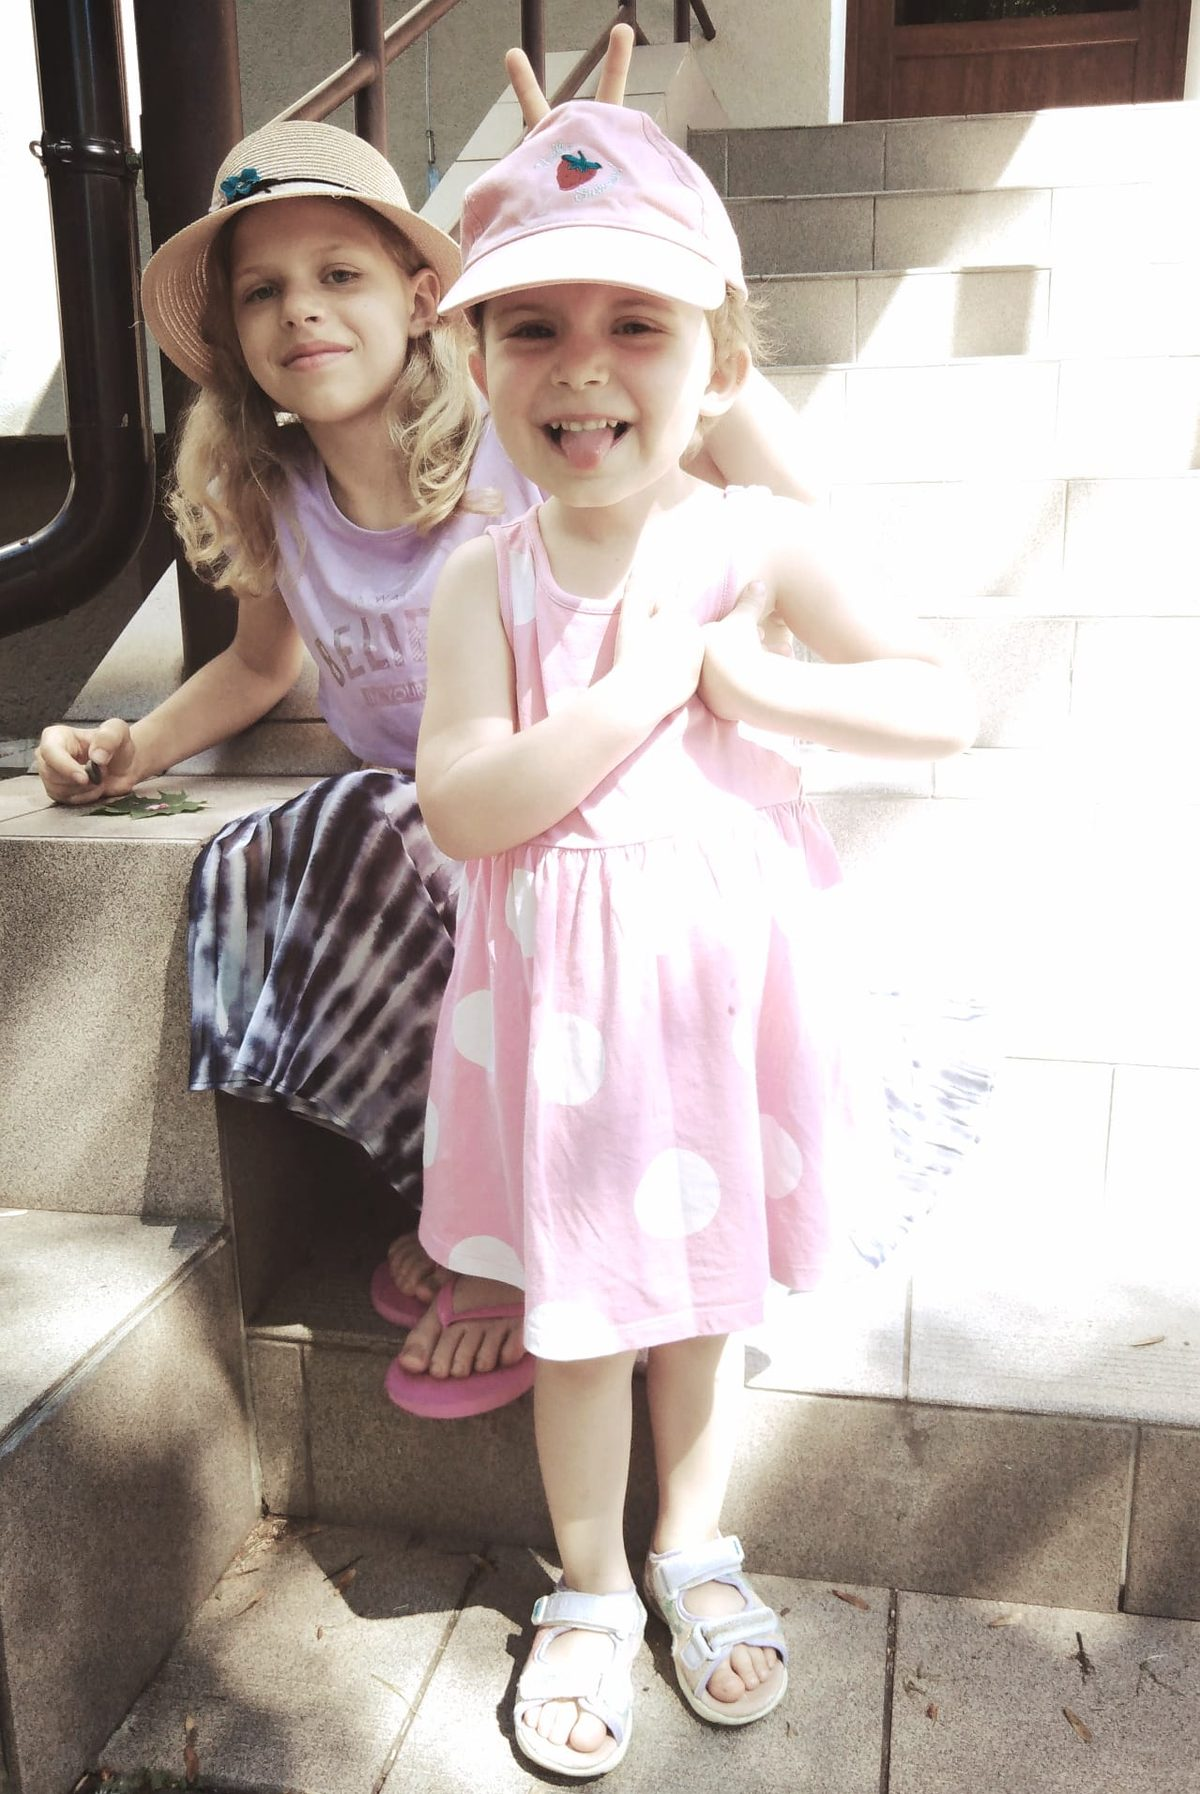
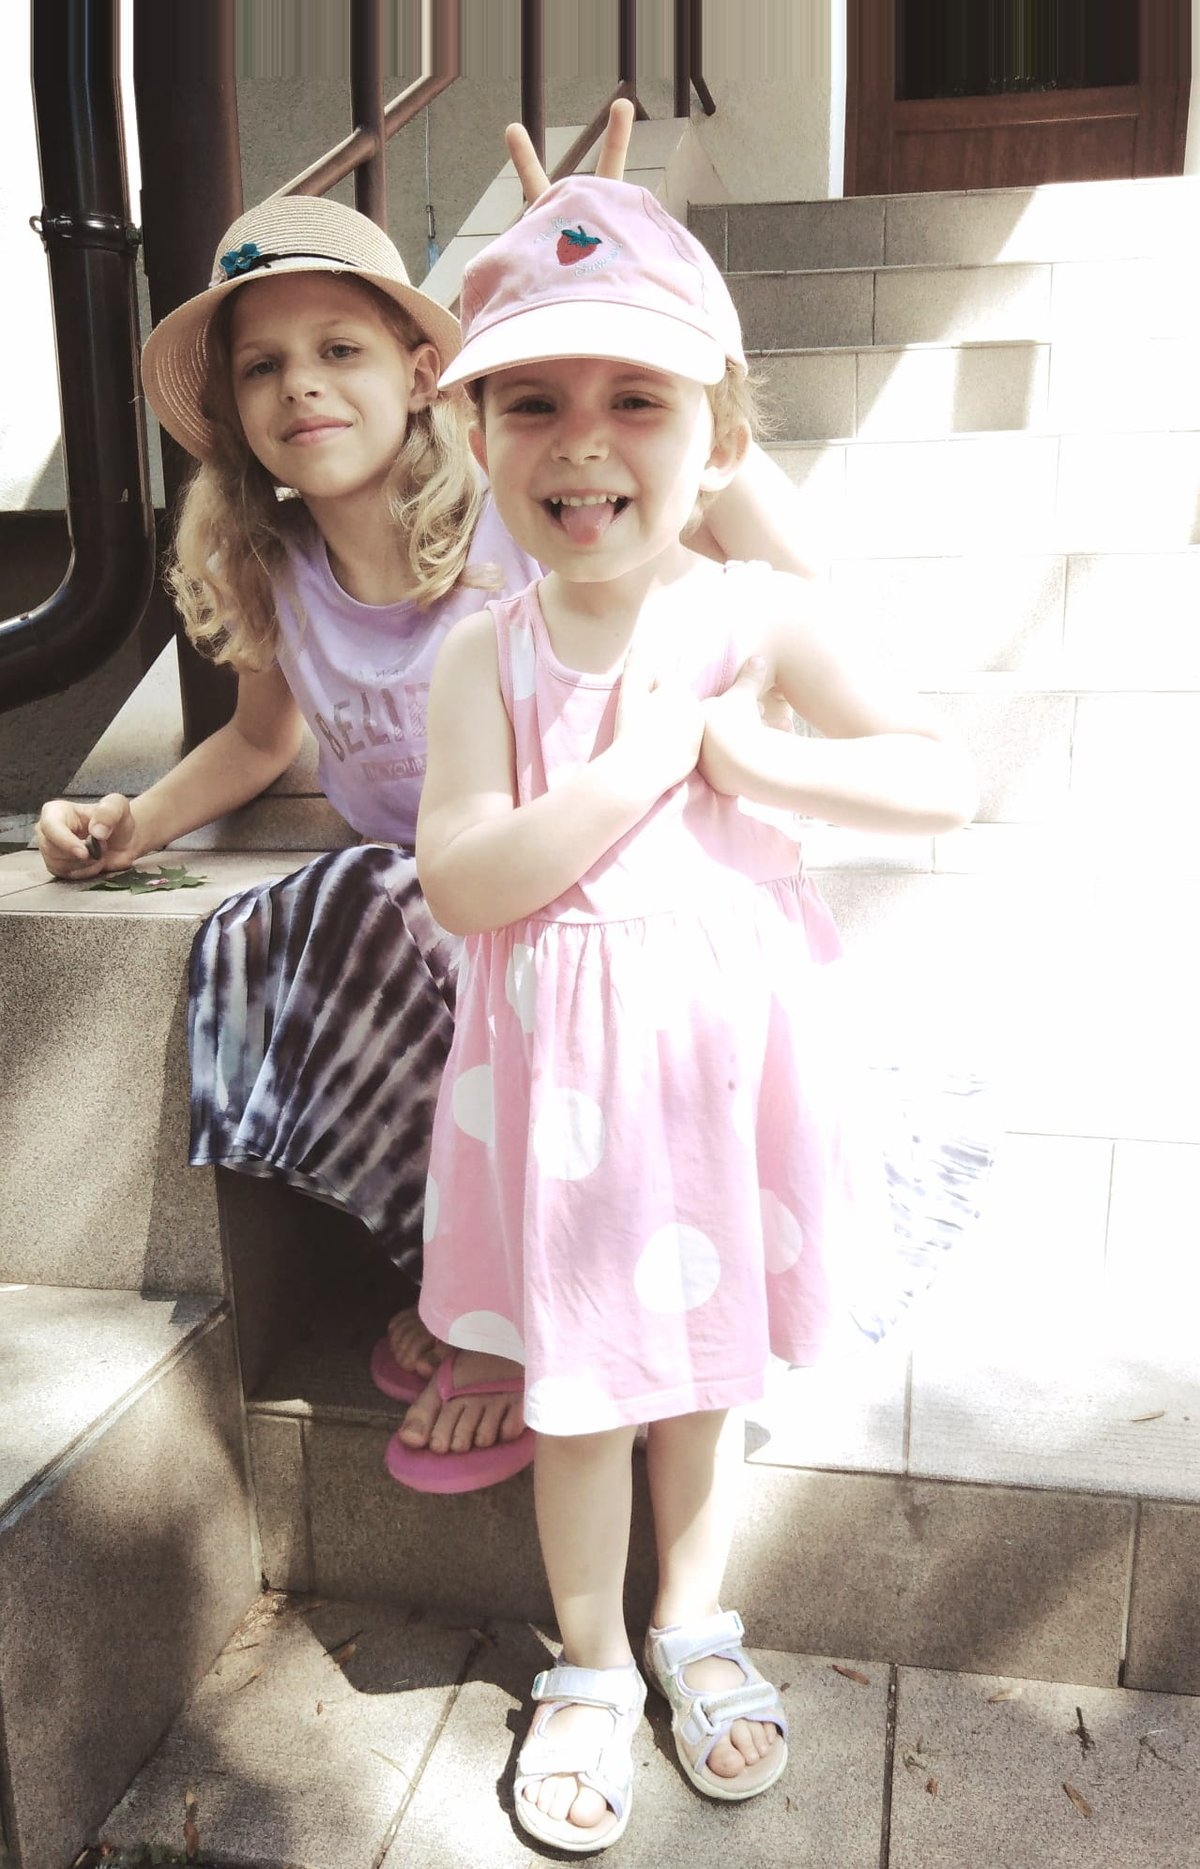
fix: oprava oriznuti hlav fotografii, pridani headroomu a 3:4 pomeru stran

diff --git a/index.html b/index.html
@@ -415,19 +415,15 @@
     }
     .photo-grid {
       display: grid;
-      grid-template-columns: 1fr 1fr;
-      gap: 10px;
+      grid-template-columns: repeat(3, 1fr);
+      gap: 12px;
     }
     .photo-item {
       border-radius: 12px;
       overflow: hidden;
       position: relative;
-      aspect-ratio: 4/3;
+      aspect-ratio: 3/4;
       background: #e2e8f0;
-    }
-    .photo-item.wide {
-      grid-column: span 2;
-      aspect-ratio: 16/9;
     }
     .photo-item img {
       width: 100%;
@@ -435,6 +431,15 @@
       object-fit: cover;
       display: block;
       transition: transform 0.3s ease;
+    }
+    .photo-item.pos-top img {
+      object-position: top center;
+    }
+    .photo-item.pos-heart img {
+      object-position: center 25%;
+    }
+    .photo-item.pos-center img {
+      object-position: center 20%;
     }
     .photo-item:hover img {
       transform: scale(1.03);
@@ -444,15 +449,18 @@
       bottom: 0;
       left: 0;
       right: 0;
-      background: linear-gradient(transparent, rgba(15,23,42,0.72));
+      background: linear-gradient(transparent, rgba(15,23,42,0.78));
       color: #fff;
-      font-size: 0.78rem;
-      padding: 18px 10px 8px;
+      font-size: 0.8rem;
+      padding: 22px 10px 8px;
       font-weight: 500;
     }
-    @media (max-width: 480px) {
-      .photo-grid { grid-template-columns: 1fr; gap: 8px; }
-      .photo-item.wide { grid-column: span 1; aspect-ratio: 4/3; }
+    @media (max-width: 640px) {
+      .photo-grid { grid-template-columns: repeat(2, 1fr); gap: 10px; }
+      .photo-item { aspect-ratio: 3/4; }
+    }
+    @media (max-width: 360px) {
+      .photo-grid { grid-template-columns: 1fr; gap: 10px; }
     }
 
     /* 4 fáze plánu */
@@ -922,28 +930,28 @@
       <h2>📷 Naše rodina</h2>
       <p class="gallery-subtitle">Jolanka (3 roky) a Maruška (12 let) se svými rodiči</p>
       <div class="photo-grid">
-        <div class="photo-item wide">
-          <img src="images/family/mama-dcery-srdce.jpg" alt="Maminka s Jolankou a Maruškou v srdci" loading="lazy" width="1200" height="675">
+        <div class="photo-item pos-heart">
+          <img src="images/family/mama-dcery-srdce.jpg" alt="Maminka s Jolankou a Maruškou v srdci" loading="lazy" width="900" height="1200">
           <span class="photo-caption">Maminka s dcerkami Jolankou a Maruškou</span>
         </div>
-        <div class="photo-item">
-          <img src="images/family/tata-dcery-srdce.jpg" alt="Tatínek s Jolankou a Maruškou" loading="lazy" width="800" height="600">
+        <div class="photo-item pos-heart">
+          <img src="images/family/tata-dcery-srdce.jpg" alt="Tatínek s Jolankou a Maruškou" loading="lazy" width="900" height="1200">
           <span class="photo-caption">Tatínek s dcerkami u jezera</span>
         </div>
-        <div class="photo-item">
-          <img src="images/family/mama-dcery-jezero.jpg" alt="Maminka objímá Jolanku a Marušku" loading="lazy" width="800" height="600">
+        <div class="photo-item pos-center">
+          <img src="images/family/mama-dcery-jezero.jpg" alt="Maminka objímá Jolanku a Marušku" loading="lazy" width="900" height="1200">
           <span class="photo-caption">Společná chvíle maminky s dcerkami</span>
         </div>
-        <div class="photo-item">
-          <img src="images/family/rodina-selfie.jpg" alt="Celá rodina pohromadě" loading="lazy" width="800" height="600">
+        <div class="photo-item pos-top">
+          <img src="images/family/rodina-selfie.jpg" alt="Celá rodina pohromadě" loading="lazy" width="900" height="1200">
           <span class="photo-caption">Celá naše rodina – pohromadě</span>
         </div>
-        <div class="photo-item">
-          <img src="images/family/dcery-schodiste.jpg" alt="Jolanka a Maruška – sestřičky" loading="lazy" width="800" height="600">
+        <div class="photo-item pos-top">
+          <img src="images/family/dcery-schodiste.jpg" alt="Jolanka a Maruška – sestřičky" loading="lazy" width="900" height="1200">
           <span class="photo-caption">Sestřičky Jolanka a Maruška</span>
         </div>
-        <div class="photo-item">
-          <img src="images/family/jolanka-pesek.jpg" alt="Tříletá Jolanka s pejskem" loading="lazy" width="800" height="600">
+        <div class="photo-item pos-top">
+          <img src="images/family/jolanka-pesek.jpg" alt="Tříletá Jolanka s pejskem" loading="lazy" width="900" height="1200">
           <span class="photo-caption">Malá Jolanka (3 roky)</span>
         </div>
       </div>
